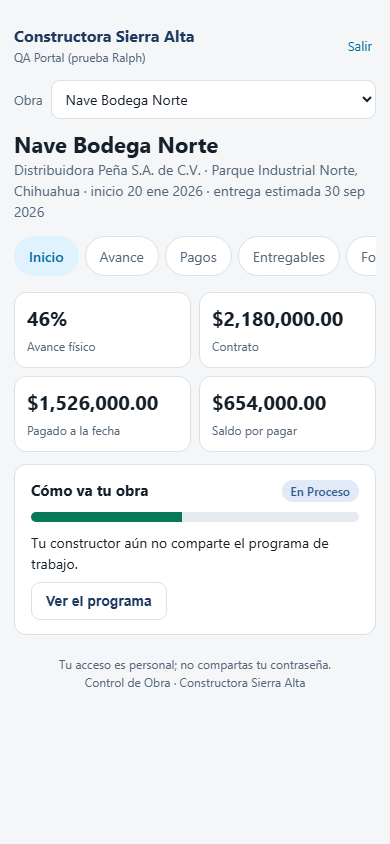
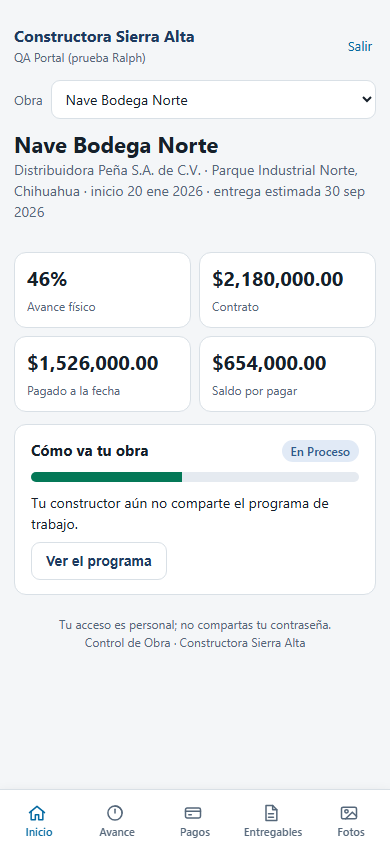
US-618: barra lateral del cliente en el portal (escritorio)
- .shell en grid de dos columnas: NavShell en modo cliente a la izquierda (240 px)
  y el contenido en 760 px; selector de obra y acciones de cuenta sólo con sesión.

diff --git a/src/portal.html b/src/portal.html
@@ -15,6 +15,21 @@
 --z-dropdown:20;--z-sticky:30;--z-backdrop:50;--z-drawer:60;--fs-xs:11px;--fs-sm:13px;--fs-base:15px;--fs-lg:18px;--tap:44px;--sb-w:240px;--sb-w-col:64px;--dur-1:150ms;--dur-2:250ms}
 *{box-sizing:border-box}body{margin:0;background:var(--bg);color:var(--ink);font-family:-apple-system,Segoe UI,Roboto,Helvetica,Arial,sans-serif;line-height:1.5;font-size:16px}
 .wrap{max-width:760px;margin:0 auto;padding:16px 14px 56px}
+/* US-618: de 900 px para arriba, barra del cliente a la izquierda y contenido a la derecha */
+.shell{display:block}
+#navCliente{display:none}
+.pc-obras{padding:0 var(--sp-3) var(--sp-2)}
+.pc-obras label{display:block;font-size:var(--fs-xs);font-weight:700;letter-spacing:.04em;text-transform:uppercase;color:var(--ink-subtle);margin-bottom:2px}
+.pc-obras select{width:100%;padding:8px 10px;font-size:14px;font-family:inherit;border:1px solid var(--line);border-radius:var(--radius-sm);background:var(--surface);color:var(--ink)}
+#navClienteBottom{display:block}
+@media(min-width:900px){
+  .solo-movil{display:none!important}
+  #navClienteBottom{display:none}
+  .shell{display:grid;grid-template-columns:var(--sb-w) minmax(0,1fr);align-items:start;gap:0;max-width:1100px;margin:0 auto}
+  #navCliente{display:block;position:sticky;top:0;height:100vh;overflow-y:auto;padding:12px 8px;border-right:1px solid var(--line);background:var(--surface)}
+  .shell .wrap{margin:0;padding:16px 24px 56px}
+  .shell footer{max-width:760px;margin:0 auto;padding-left:24px;padding-right:24px}
+}
 header{display:flex;align-items:center;gap:12px;padding:8px 0 14px}header img{width:44px;height:44px;border-radius:10px;object-fit:cover;background:#fff;border:1px solid var(--line)}
 header .emp{font-weight:700;color:var(--primary);flex:1}header .emp small{display:block;font-weight:400;color:var(--muted);font-size:12px}
 h1{font-size:22px;line-height:1.2;margin:4px 0 2px}.sub{color:var(--muted);margin:0 0 14px;font-size:14px}
@@ -70,10 +85,17 @@ input:focus,select:focus{outline:2px solid var(--accent);outline-offset:1px}
 .txt{background:none;border:0;color:var(--accent);font-size:13px;cursor:pointer;padding:4px;font-family:inherit}
 </style>
 </head>
-<body><div class="wrap">
+<body>
+<div class="shell">
+<nav id="navCliente" aria-label="Secciones de tu obra"></nav>
+<div class="col">
+<div class="wrap">
 <div id="app"><p class="sub">Cargando…</p></div>
 <footer id="pie">Control de Obra</footer>
 </div>
+</div>
+</div>
+<nav id="navClienteBottom" aria-label="Secciones de tu obra"></nav>
 <script src="js/nav-shell.js?v=20260903a"></script>
 <script>
 const SB='https://cpjdlaiarmxojiyhhpxt.supabase.co', ANON='sb_publishable_4UKToEePHAO3b_IlI8HlcQ_z_hKUa2y';
@@ -360,8 +382,8 @@ function pintarObra(d) {
   $('#pie').innerHTML = (sesion ? 'Tu acceso es personal; no compartas tu contraseña.' : 'Este enlace es privado; compártelo sólo con quien deba ver el avance de la obra.') + '<br>Control de Obra' + (ctx.e.nombre ? ' · ' + esc(ctx.e.nombre) : '');
   const e = ctx.e, o = ctx.o;
   $('#app').innerHTML = `
-  <header>${e.logo_url ? `<img src="${esc(e.logo_url)}" alt="" onerror="this.remove()">` : ''}<div class="emp">${esc(e.nombre)}<small>${(sesion && usuario) ? esc(usuario.nombre) : 'Avance de tu obra'}</small></div>${sesion ? `<button class="txt" onclick="salir()">Salir</button>` : ''}</header>
-  ${(sesion && obras.length > 1) ? `<div class="barra"><label for="selObra" style="margin:0">Obra</label><select id="selObra" onchange="cambiarObra(this)">${obras.map(x => `<option value="${x.id}" ${x.id === obraActual ? 'selected' : ''}>${esc(x.nombre)}</option>`).join('')}</select></div>` : ''}
+  <header class="solo-movil">${e.logo_url ? `<img src="${esc(e.logo_url)}" alt="" onerror="this.remove()">` : ''}<div class="emp">${esc(e.nombre)}<small>${(sesion && usuario) ? esc(usuario.nombre) : 'Avance de tu obra'}</small></div>${sesion ? `<button class="txt" onclick="salir()">Salir</button>` : ''}</header>
+  ${(sesion && obras.length > 1) ? `<div class="barra solo-movil"><label for="selObra" style="margin:0">Obra</label><select id="selObra" onchange="cambiarObra(this)">${obras.map(x => `<option value="${x.id}" ${x.id === obraActual ? 'selected' : ''}>${esc(x.nombre)}</option>`).join('')}</select></div>` : ''}
   <h1>${esc(o.nombre)}</h1>
   <p class="sub">${esc(o.cliente || '')}${o.ubicacion ? ' · ' + esc(o.ubicacion) : ''}${o.fecha_inicio ? ' · inicio ' + fecha(o.fecha_inicio) : ''}${o.fecha_fin ? ' · entrega estimada ' + fecha(o.fecha_fin) : ''}</p>
   <nav class="secciones" id="navSecciones" aria-label="Secciones"></nav>
@@ -380,11 +402,44 @@ function pintarSeccion() {
   window.scrollTo({ top: 0, behavior: 'auto' });
   portalEvento('seccion', { seccion: seccion, obra_id: obraActual });
 }
-// Menú de secciones (US-618 y US-619 lo sustituyen por NavShell)
+// Barra del cliente con NavShell (US-618 escritorio, US-619 móvil). El menú de píldoras queda como respaldo
+// si el componente no cargó (el portal no debe quedarse sin navegación por un archivo que falte).
+const SEC_ICONO = { inicio: 'inicio', avance: 'avance', pagos: 'pagos', entregables: 'entregables', fotos: 'fotos', contacto: 'contacto' };
+function navModeloCliente() {
+  const e = ctx.e;
+  const grupos = [{ k: 'secciones', t: 'Tu obra', suelto: false, plano: true, items: SECCIONES.map(s => ({ k: s, t: SEC_TITULO[s], ic: SEC_ICONO[s] })) }];
+  const acciones = [];
+  if (sesion) {
+    acciones.push({ k: 'password', t: 'Cambiar contraseña', ic: 'cuenta', onClick: 'pantallaPassword(false)' });
+    acciones.push({ k: 'salir', t: 'Salir', ic: 'mas', onClick: 'salir()', tono: 'danger' });
+  }
+  return {
+    modo: 'cliente', prefijo: 'pc',
+    marca: { nombre: e.nombre || 'Tu obra', sub: (sesion && usuario) ? usuario.nombre : 'Avance de tu obra', logo: e.logo_url || '' },
+    grupos, activo: seccion, acciones,
+    onItem: "irASeccion('{k}')",
+    inferior: { items: ['inicio', 'avance', 'pagos', 'entregables', 'fotos'] },
+  };
+}
 function pintarNavSecciones() {
-  const n = $('#navSecciones');
-  if (!n) return;
-  n.innerHTML = SECCIONES.map(s => `<button type="button" class="sec-btn${s === seccion ? ' activa' : ''}"${s === seccion ? ' aria-current="page"' : ''} onclick="irASeccion('${s}')">${SEC_TITULO[s]}</button>`).join('');
+  const pill = $('#navSecciones');
+  const aside = $('#navCliente'), bottom = $('#navClienteBottom');
+  if (typeof NavShell === 'undefined' || !ctx) {
+    if (pill) pill.innerHTML = SECCIONES.map(s => `<button type="button" class="sec-btn${s === seccion ? ' activa' : ''}"${s === seccion ? ' aria-current="page"' : ''} onclick="irASeccion('${s}')">${SEC_TITULO[s]}</button>`).join('');
+    return;
+  }
+  const m = navModeloCliente();
+  const r = NavShell.render(m);
+  if (aside) aside.innerHTML = r.aside;
+  if (bottom) bottom.innerHTML = r.bottom;
+  // Con la barra pintada, las píldoras sobran (se quedan sólo si NavShell no cargó)
+  if (pill) pill.innerHTML = '';
+  // Selector de obra: sólo con sesión de cuenta y más de una obra
+  if (aside && sesion && obras.length > 1) {
+    const sel = `<div class="pc-obras"><label for="selObraNav">Obra</label><select id="selObraNav" onchange="cambiarObra(this)">${obras.map(x => `<option value="${x.id}" ${x.id === obraActual ? 'selected' : ''}>${esc(x.nombre)}</option>`).join('')}</select></div>`;
+    const marca = aside.querySelector('.nvs-marca');
+    if (marca) marca.insertAdjacentHTML('afterend', sel);
+  }
 }
 window.addEventListener('hashchange', () => {
   if (!ctx) return;                  // todavía no hay obra abierta: lo resuelve abrirObra

diff --git a/scripts/qa/portal-nav.py b/scripts/qa/portal-nav.py
@@ -60,12 +60,15 @@ with sync_playwright() as pw:
                 v = page.evaluate("""()=>({sec:seccion,hash:location.hash,titulo:document.title,
                   hijos:document.querySelector('#vista').children.length,
                   texto:document.querySelector('#vista').innerText.trim().length,
-                  activa:(document.querySelector('.sec-btn.activa')||{}).textContent||'',
-                  cur:document.querySelectorAll('#navSecciones [aria-current="page"]').length})""")
+                  cur:[...document.querySelectorAll('#navCliente [aria-current="page"]')].map(b=>b.dataset.k),
+                  curBottom:[...document.querySelectorAll('#navClienteBottom [aria-current="page"]')].map(b=>b.dataset.k),
+                  items:[...document.querySelectorAll('#navCliente .nvs-item')].map(b=>b.dataset.k)})""")
                 vistas[s] = v
                 check(v['sec'] == s, tag + ': #' + s + ' no cambio de seccion: ' + str(v))
                 check(v['hijos'] > 0 and v['texto'] > 40, tag + ': la seccion ' + s + ' quedo vacia: ' + str(v))
-                check(v['cur'] == 1, tag + ': deberia haber un solo aria-current en el menu de secciones (' + s + ')')
+                check(v['cur'] == [s], tag + ': la barra deberia marcar ' + s + ' y marca ' + str(v['cur']))
+                check(len(v['curBottom']) <= 1, tag + ': la barra inferior deberia tener un solo aria-current (' + s + ')')
+                check(v['items'] == SECCIONES, tag + ': la barra del cliente deberia listar las 6 secciones: ' + str(v['items']))
                 check(v['titulo'].split(' · ')[0].lower().startswith(s[:4]) or s == 'entregables' and 'Entregables' in v['titulo'],
                       tag + ': document.title de ' + s + ' = ' + str(v['titulo']))
             print(tag, '| titulos:', [vistas[s]['titulo'] for s in ('inicio', 'pagos')])
@@ -105,6 +108,37 @@ with sync_playwright() as pw:
                 check(not t['sel'], tag + ': el enlace de token no deberia traer selector de obra')
                 check(not t['pass'] and not t['salir'], tag + ': el enlace de token no deberia ofrecer cuenta: ' + str(t))
                 check(t['privado'], tag + ': falta el aviso de enlace privado en Contacto')
+
+            # US-618/US-619: layout de dos columnas en escritorio, barra inferior en móvil
+            lay = page.evaluate("""()=>{const a=document.getElementById('navCliente'),b=document.getElementById('navClienteBottom');
+              const w=document.querySelector('.wrap');
+              return{aside:getComputedStyle(a).display,anchoAside:Math.round(a.getBoundingClientRect().width),
+                bottom:getComputedStyle(b).display,items:[...b.querySelectorAll('.nvs-bottom-item')].map(x=>x.dataset.k),
+                altos:[...b.querySelectorAll('button')].map(x=>Math.round(x.getBoundingClientRect().height)),
+                cols:getComputedStyle(document.querySelector('.shell')).gridTemplateColumns,
+                anchoMain:Math.round(w.getBoundingClientRect().width),
+                overflow:document.documentElement.scrollWidth<=document.documentElement.clientWidth+1};}""")
+            print(tag, '| layout:', lay)
+            check(lay['overflow'], tag + ': desborde horizontal')
+            if ancho >= 900:
+                check(lay['aside'] != 'none' and lay['anchoAside'] == 240, tag + ': el aside deberia medir 240 px: ' + str(lay))
+                check(lay['bottom'] == 'none', tag + ': en escritorio no va la barra inferior')
+                check(len(lay['cols'].split(' ')) == 2, tag + ': el layout deberia ser de dos columnas: ' + str(lay['cols']))
+                check(lay['anchoMain'] <= 780, tag + ': el contenido deberia quedarse en 760 px: ' + str(lay['anchoMain']))
+            else:
+                check(lay['aside'] == 'none', tag + ': en movil el aside no se pinta')
+                check(lay['bottom'] != 'none' and len(lay['items']) == 5, tag + ': la barra inferior deberia traer 5 secciones: ' + str(lay['items']))
+                check(all(h >= 44 for h in lay['altos'] if h > 0), tag + ': objetivos chicos en la barra inferior: ' + str(lay['altos']))
+
+            if ancho >= 900:
+                try:
+                    page.add_script_tag(url='https://cdnjs.cloudflare.com/ajax/libs/axe-core/4.10.2/axe.min.js')
+                    page.wait_for_function("()=>typeof axe!=='undefined'", timeout=20000)
+                    v = page.evaluate("async()=>{const r=await axe.run(document.getElementById('navCliente'),{runOnly:{type:'tag',values:['wcag2a','wcag2aa']}});return r.violations.map(x=>({id:x.id,n:x.nodes.length}));}")
+                    print(tag, '| axe aside ->', v)
+                    check(not v, tag + ': axe en la barra del cliente: ' + str(v))
+                except Exception as ex:
+                    fallos.append(tag + ': axe no cargo: ' + str(ex))
 
             if args.out:
                 page.evaluate("()=>{location.hash='#inicio';}"); page.wait_for_timeout(400)
